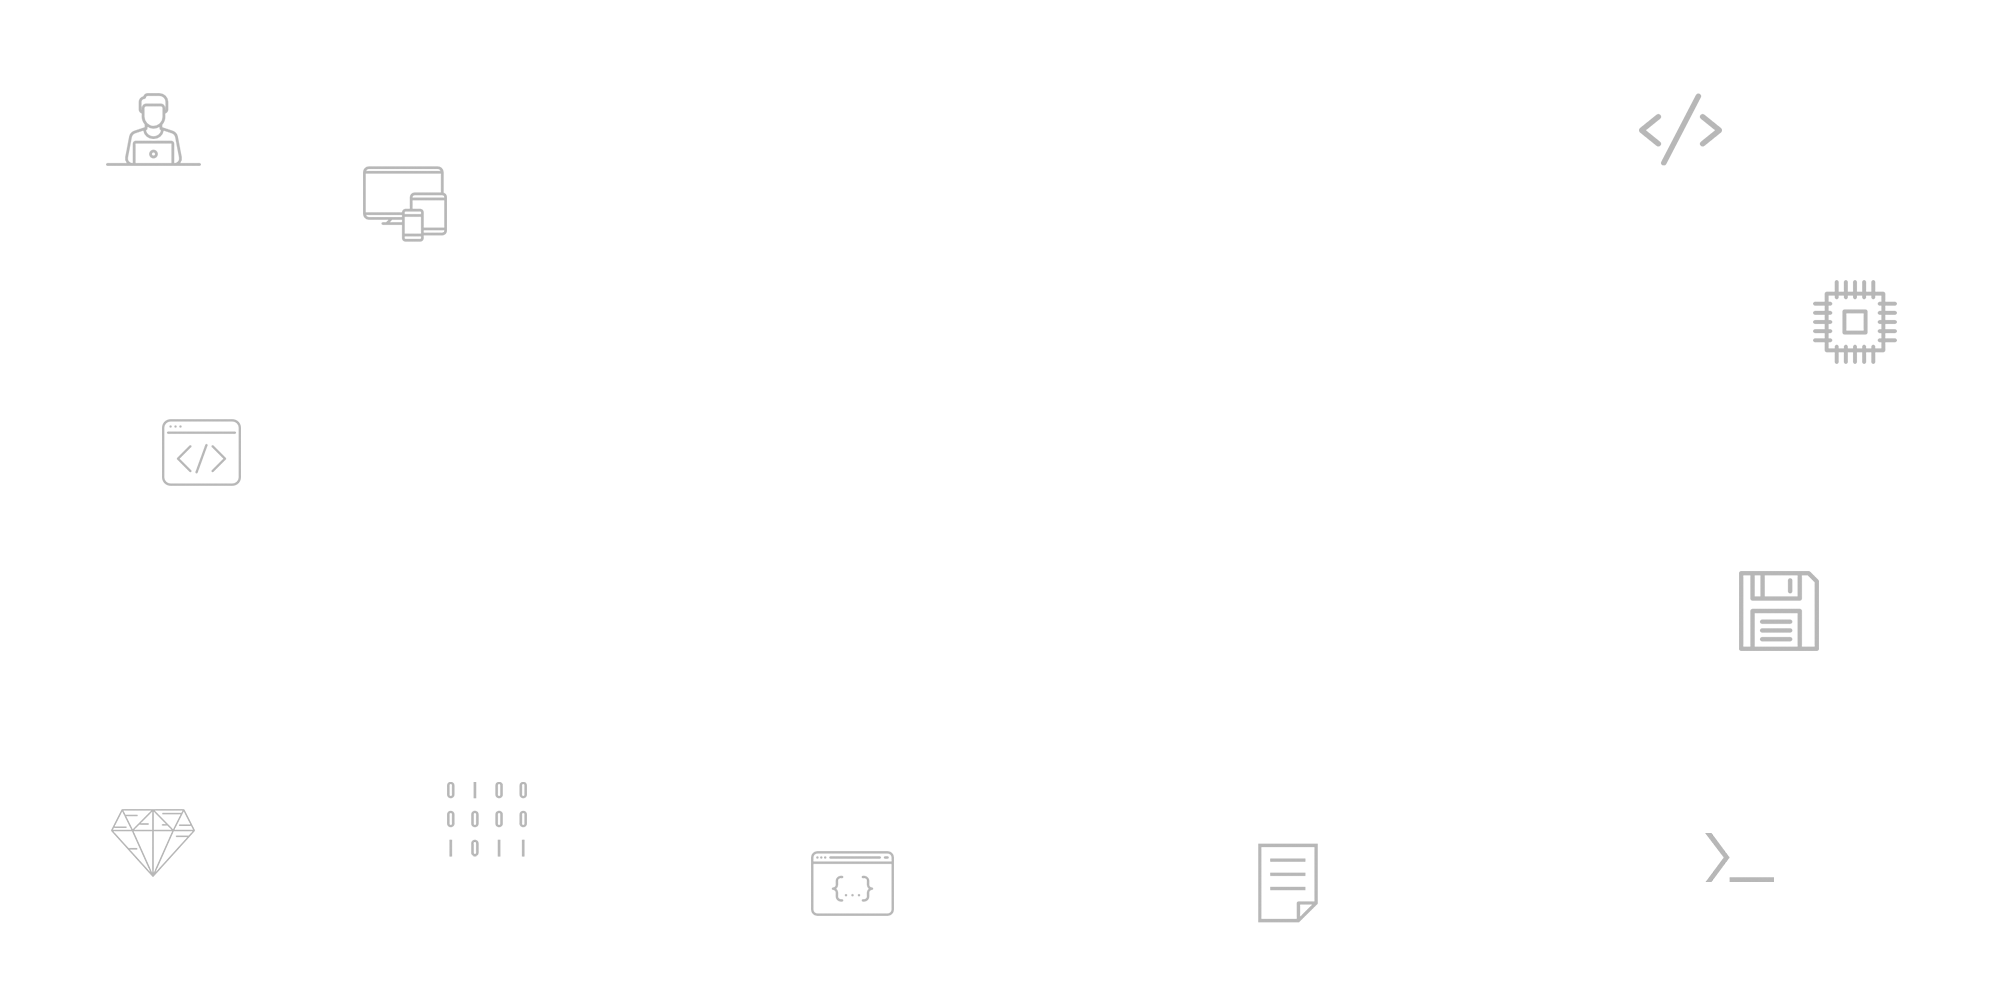
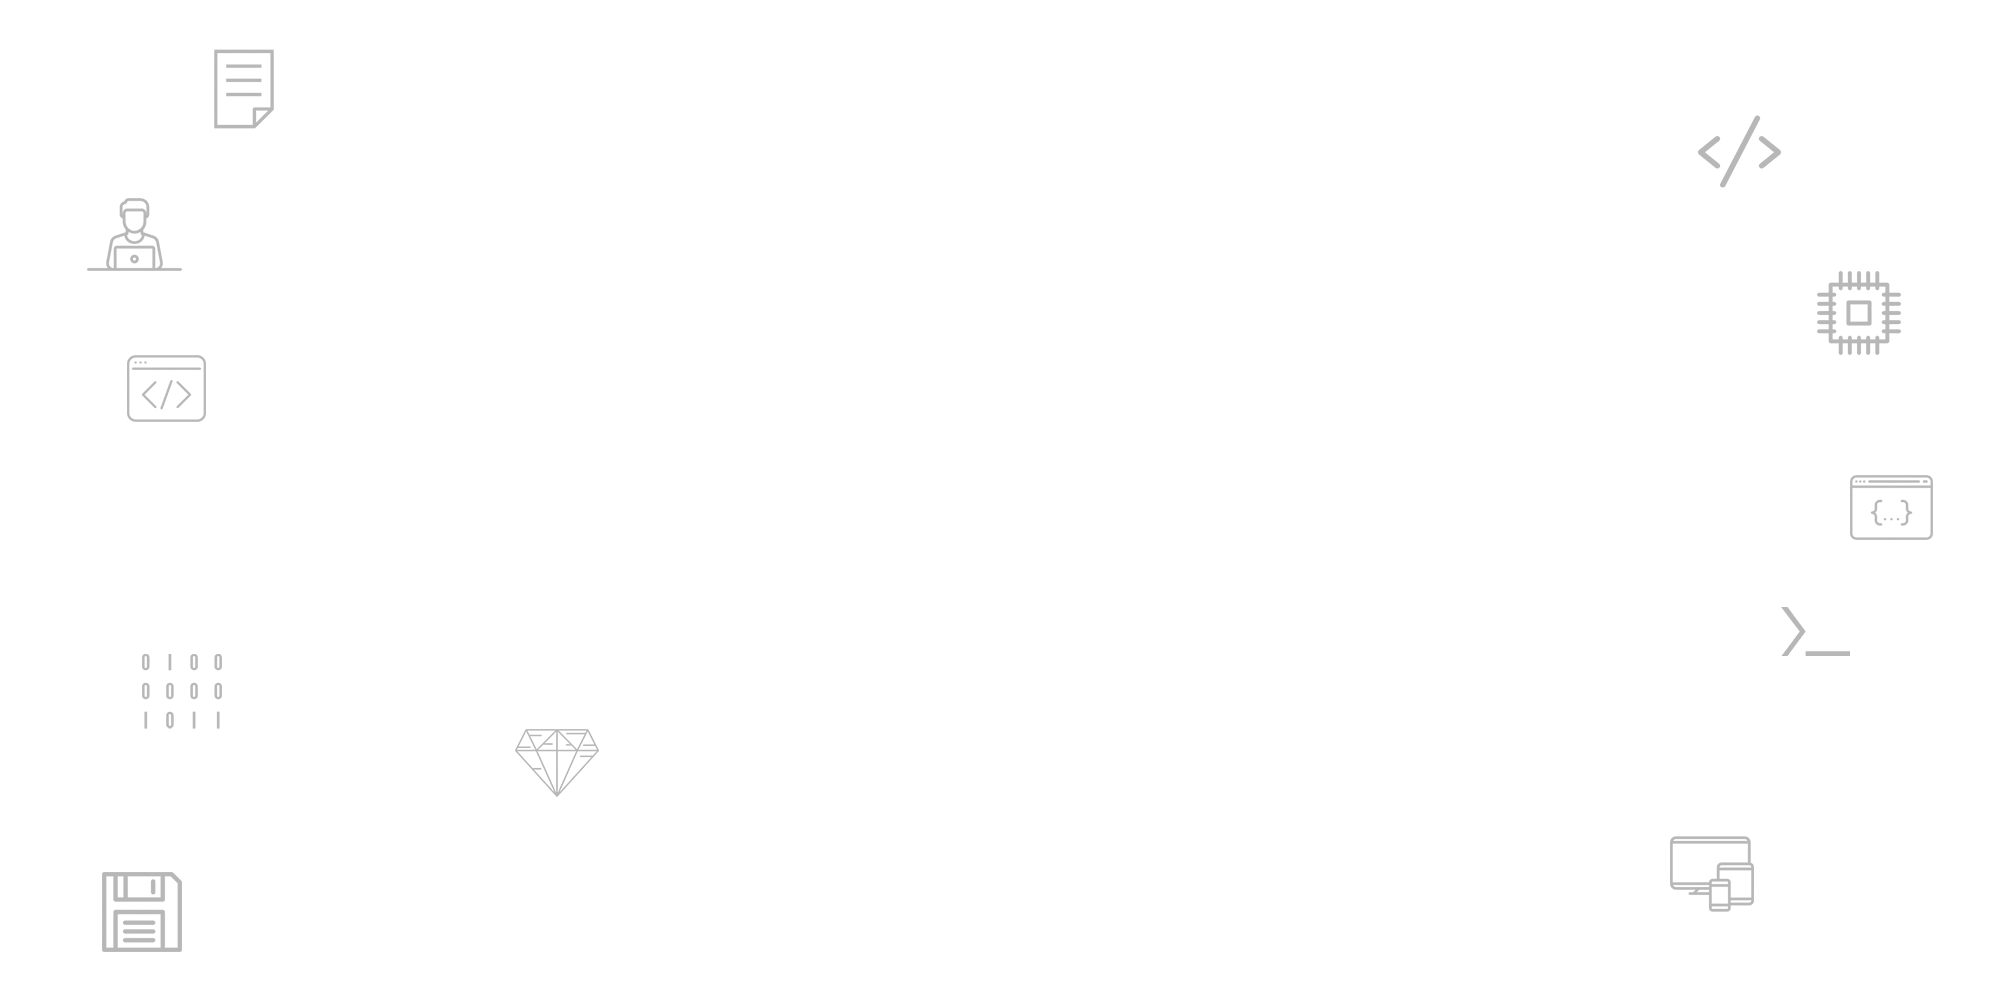
cambios en el background

diff --git a/app/assets/stylesheets/static_pages.scss b/app/assets/stylesheets/static_pages.scss
@@ -12,7 +12,6 @@ $primary-light: #ffad33;
     background-image: none !important;
     background-color: white;
     background-repeat: no-repeat;
-    background-attachment: fixed;
     background-size: 100%;
   }
 }
@@ -23,13 +22,14 @@ $primary-light: #ffad33;
   padding-bottom: 30px;
   background-image: url("back_asocia.png");
   background-color: white;
-  background-repeat: repeat-y;
-  background-attachment: fixed;
+  background-repeat: no-repeat;
   background-size: 100%;
 }
 
 // Cuerpo de la seccion de "contactenos"
 .body-contact {
+  padding-top: 30px;
+  padding-bottom: 30px;
   background-color: white;
   margin-top: -10px;
 }
